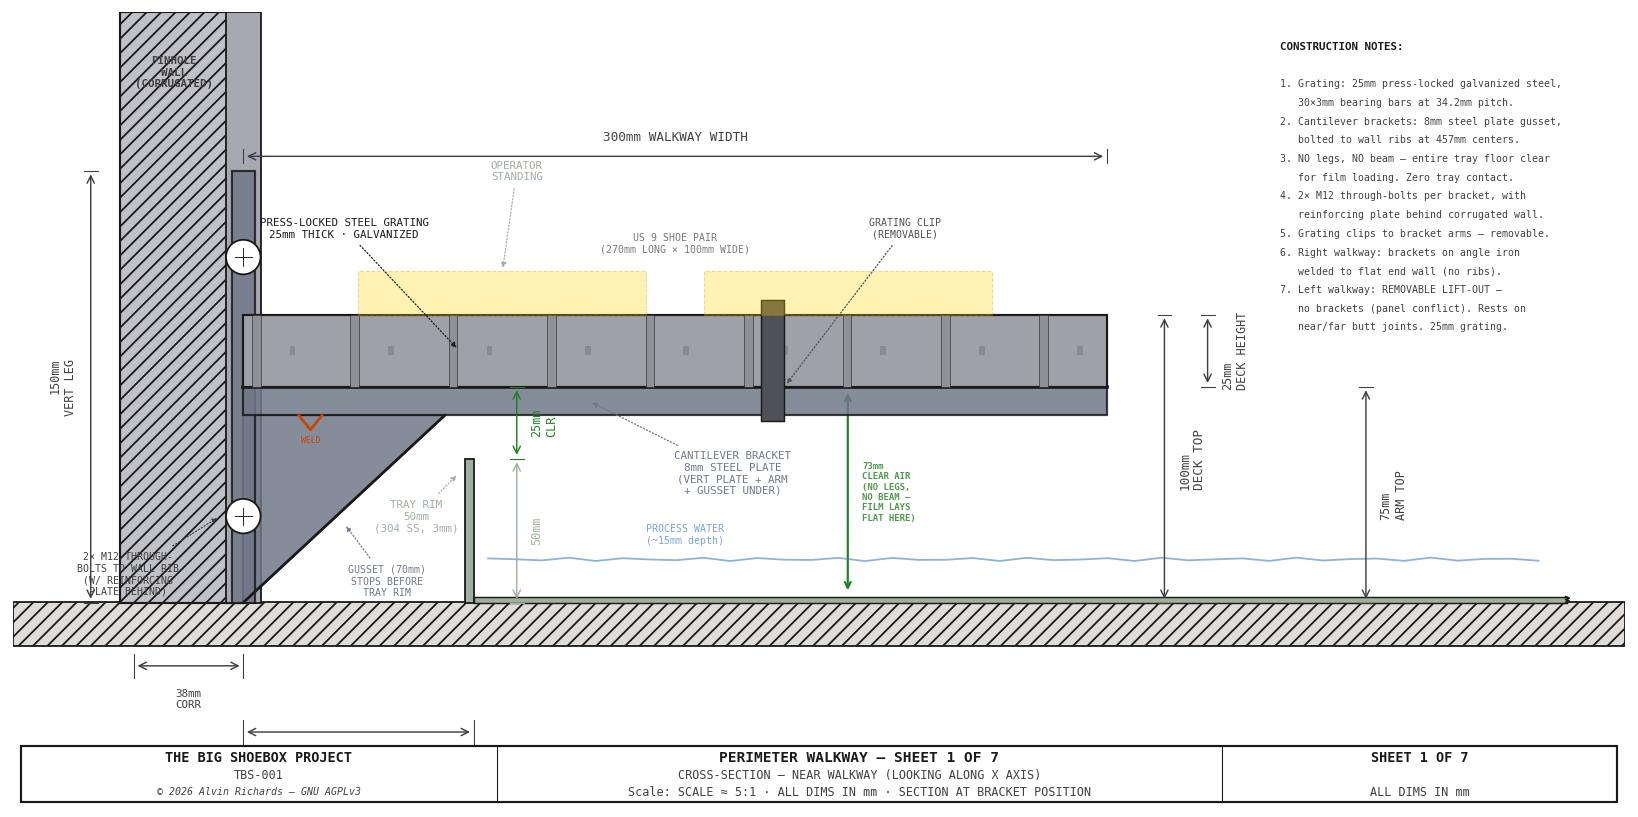
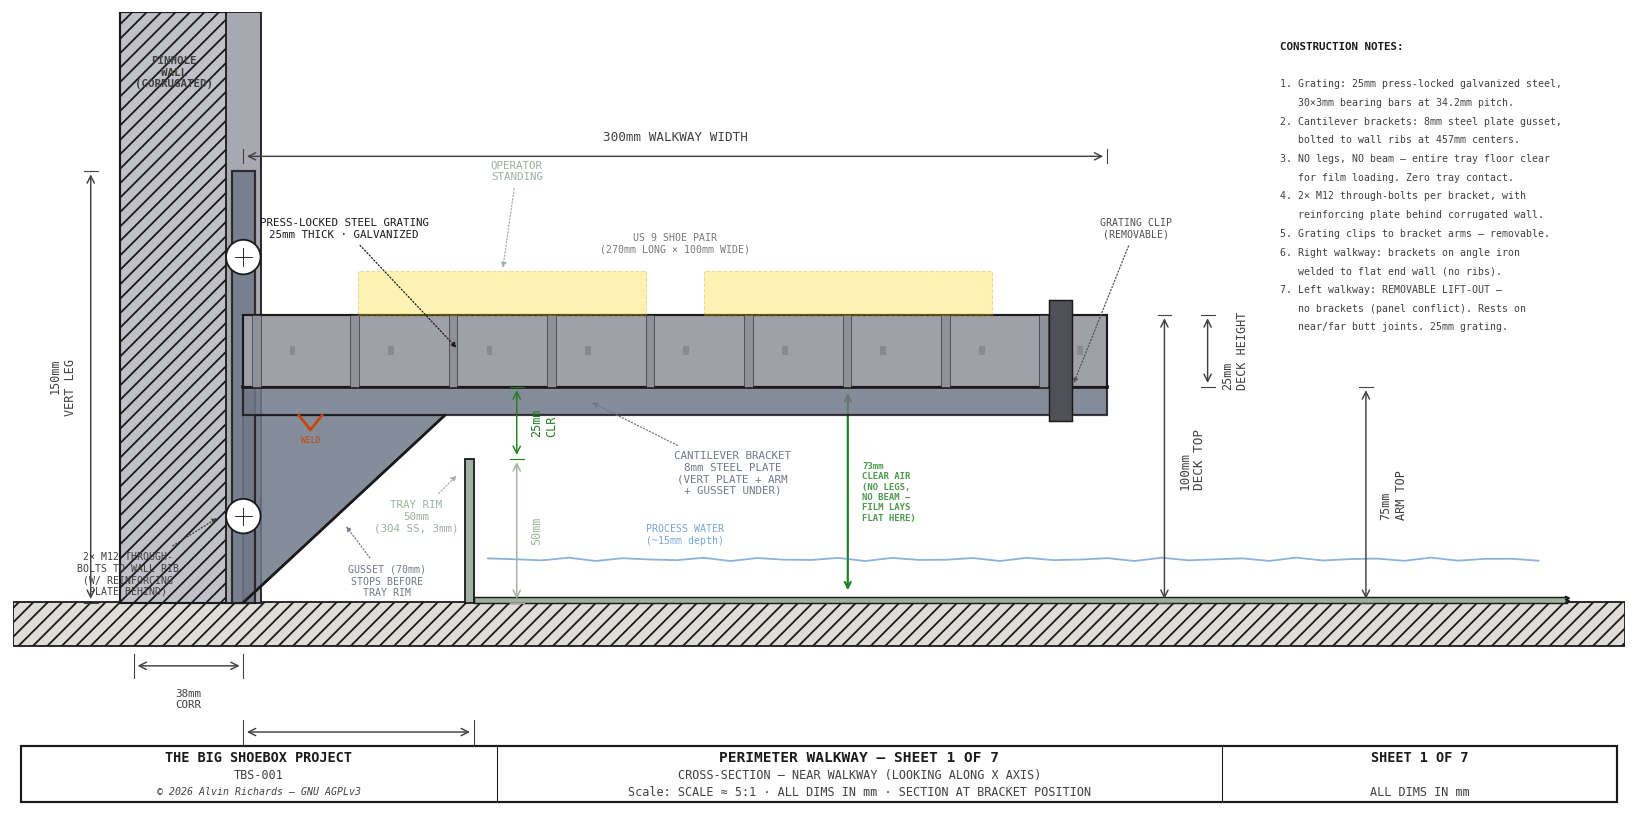
Move grating clip to innermost edge closest to processing tray

diff --git a/generate_walkway_diagram.py b/generate_walkway_diagram.py
@@ -290,8 +290,8 @@ def sheet1():
            color=C_OUT, fs=6, ha="center", va="center",
            arrow_style="-|>", font=FONT)
 
-    # ── Grating clip ─────────────────────────────────────────────────────────
-    clip_yd = WALKWAY_W * 0.6
+    # ── Grating clip (innermost edge, closest to processing tray) ──────────
+    clip_yd = WALKWAY_W - 20
     clip_w = 8
     clip_below = 12   # extends below arm top
     clip_above = 5    # extends above grate top
@@ -301,7 +301,7 @@ def sheet1():
                             sx(clip_w), sy(clip_top - clip_bot),
                             fc="#505058", ec=C_OUT, lw=0.8, zorder=9))
     leader(ax, sx(clip_yd + clip_w), sy(brkt_arm_z),
-           sx(clip_yd + 50), sy(brkt_arm_z + 55),
+           sx(clip_yd + 30), sy(brkt_arm_z + 55),
            "GRATING CLIP\n(REMOVABLE)", color="#505058", fs=5.5,
            ha="center", va="center", arrow_style="-|>", font=FONT)
 
